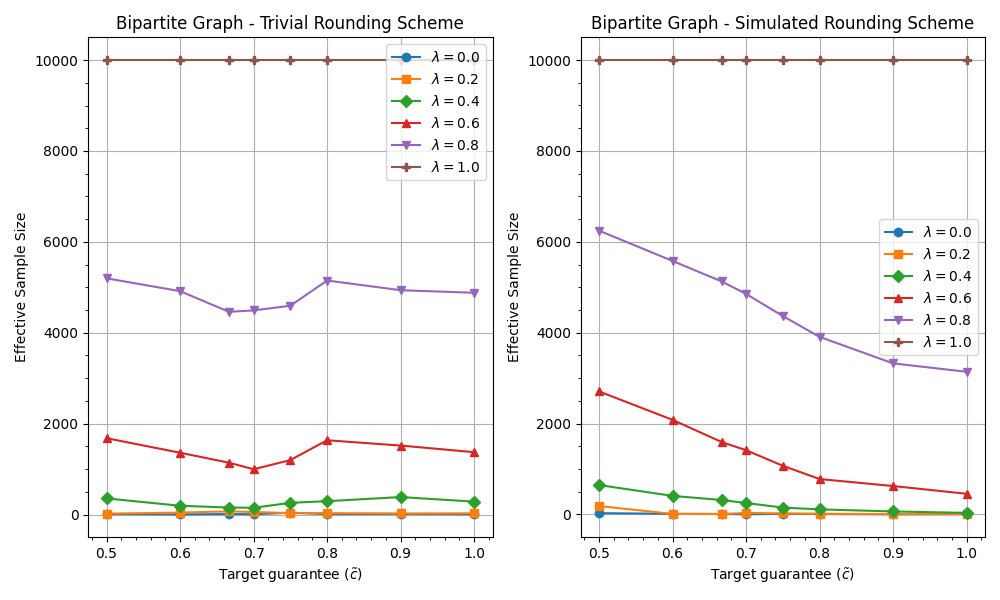
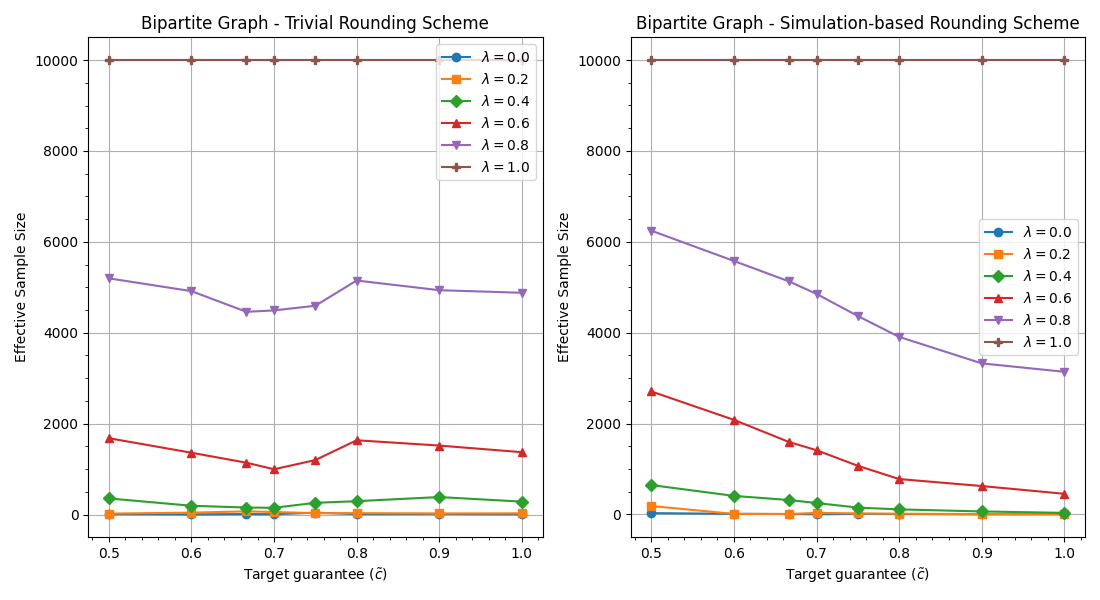
minor update

diff --git a/summary_results/effective_sample_size_10_10.py b/summary_results/effective_sample_size_10_10.py
@@ -27,11 +27,11 @@ def plot_effective_sample_size():
     }
 
     df = pd.read_csv(f"{SUMMARY_RESULTS_DIR}/effective_sample_size_results_bipartite_10_10.csv")
-    fig, ax = plt.subplots(1,2, figsize=(10, 6))
+    fig, ax = plt.subplots(1,2, figsize=(11, 6))
     for r in sorted(df["r"].unique()):
         subset = df[df["rounding_scheme"] == "simulated"]
         ax[1].plot(subset[subset["r"] == r]["c"], subset[subset["r"] == r]["effective_sample_size"], label=f"$\\lambda={r}$", marker=markers.get(r, 'o'))
-    ax[1].set_title("Bipartite Graph - Simulated Rounding Scheme")
+    ax[1].set_title("Bipartite Graph - Simulation-based Rounding Scheme")
     ax[1].set_xlabel("Target guarantee ($\\tilde{c}$)")
     ax[1].set_ylabel("Effective Sample Size")
     ax[1].legend()
@@ -52,5 +52,5 @@ def plot_effective_sample_size():
     plt.show()
 
 if __name__ == "__main__":
-    parse_json_files()
+    # parse_json_files()
     plot_effective_sample_size()
